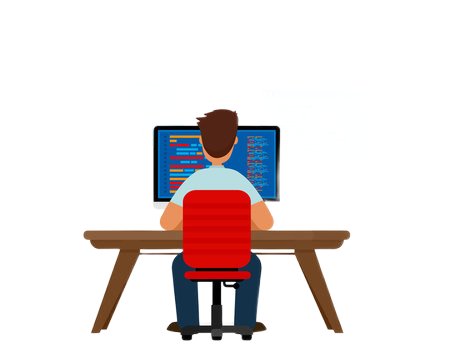
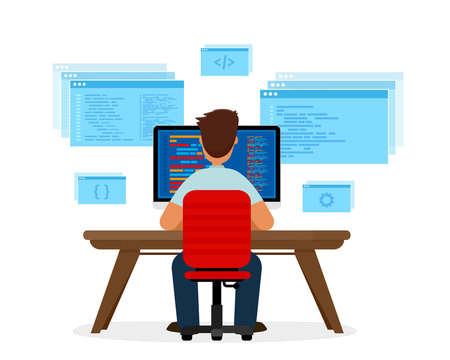
Create Skills component

diff --git a/components/Skills.tsx b/components/Skills.tsx
@@ -1,0 +1,164 @@
+import React from 'react';
+import Grid from '@mui/material/Grid';
+import Box from '@mui/material/Box';
+import Typography from '@mui/material/Typography';
+import JavascriptLogo from '@/assets/javascript.svg';
+import TypeScriptLogo from '@/assets/typescript.svg';
+import Html5Logo from '@/assets/html5.svg';
+import Css3Logo from '@/assets/css3.svg';
+import ReactLogo from '@/assets/react.svg';
+import NextjsLogo from '@/assets/nextjs.svg';
+import ApolloLogo from '@/assets/apollo.svg';
+import ReduxLogo from '@/assets/redux.svg';
+import MUILogo from '@/assets/mui.svg';
+import BootstrapLogo from '@/assets/bootstrap.svg';
+import AntdLogo from '@/assets/antd.svg';
+import NodeJsLogo from '@/assets/nodejs.svg';
+import ExpressLogo from '@/assets/express.svg';
+import MongodbLogo from '@/assets/mongodb.svg';
+import PostGresLogo from '@/assets/postgres.svg';
+import HerokuLogo from '@/assets/heroku.svg';
+import GraphQLLogo from '@/assets/graphql.svg';
+import RestLogo from '@/assets/rest.svg';
+import NestJSLogo from '@/assets/nestjs.svg';
+import Image from 'next/image';
+import Tooltip from '@mui/material/Tooltip';
+
+const Skills: React.FC = () => {
+  return (
+    <Box pb={30}>
+      <Grid container>
+        <Grid item sm={12} md={6}>
+          <Image
+            layout='fixed'
+            src='/dev2-image.png'
+            width={500}
+            height={500}
+            alt='Image'
+          />
+        </Grid>
+        <Grid container item md={6} direction='column'>
+          <Box>
+            <Typography paragraph align='right' sx={{ fontSize: '42px' }}>
+              Languages known
+            </Typography>
+            <Box
+              style={{
+                display: 'flex',
+                gap: '10px',
+                justifyContent: 'flex-end',
+                marginTop: '10px',
+              }}
+            >
+              <Tooltip title='Javascript'>
+                <JavascriptLogo />
+              </Tooltip>
+
+              <Tooltip title='Typescript'>
+                <TypeScriptLogo />
+              </Tooltip>
+
+              <Tooltip title='HTML'>
+                <Html5Logo />
+              </Tooltip>
+
+              <Tooltip title='CSS'>
+                <Css3Logo />
+              </Tooltip>
+            </Box>
+          </Box>
+
+          <Box mt={5}>
+            <Typography paragraph align='right' sx={{ fontSize: '42px' }}>
+              Frontend
+            </Typography>
+            <Box
+              style={{
+                display: 'flex',
+                gap: '10px',
+                justifyContent: 'flex-end',
+                marginTop: '10px',
+              }}
+            >
+              <Tooltip title='React'>
+                <ReactLogo />
+              </Tooltip>
+
+              <Tooltip title='Next.js'>
+                <NextjsLogo />
+              </Tooltip>
+
+              <Tooltip title='Apollo Client'>
+                <ApolloLogo />
+              </Tooltip>
+
+              <Tooltip title='Redux'>
+                <ReduxLogo />
+              </Tooltip>
+
+              <Tooltip title='Material UI'>
+                <MUILogo />
+              </Tooltip>
+
+              <Tooltip title='Bootstrap'>
+                <BootstrapLogo />
+              </Tooltip>
+
+              <Tooltip title='Ant Design'>
+                <AntdLogo />
+              </Tooltip>
+            </Box>
+          </Box>
+
+          <Box mt={5}>
+            <Typography paragraph align='right' sx={{ fontSize: '42px' }}>
+              Backend, Database and Cloud
+            </Typography>
+            <Box
+              style={{
+                display: 'flex',
+                gap: '10px',
+                justifyContent: 'flex-end',
+                marginTop: '10px',
+              }}
+            >
+              <Tooltip title='Node.js'>
+                <NodeJsLogo />
+              </Tooltip>
+
+              <Tooltip title='Express.js'>
+                <ExpressLogo />
+              </Tooltip>
+
+              <Tooltip title='Nest.js'>
+                <NestJSLogo />
+              </Tooltip>
+
+              <Tooltip title='MongoDB'>
+                <MongodbLogo />
+              </Tooltip>
+
+              <Tooltip title='Postgres'>
+                <PostGresLogo />
+              </Tooltip>
+
+              <Tooltip title='REST API'>
+                <RestLogo />
+              </Tooltip>
+
+              <Tooltip title='GraphQL API'>
+                <GraphQLLogo />
+              </Tooltip>
+
+              <Tooltip title='Heroku'>
+                <HerokuLogo />
+              </Tooltip>
+            </Box>
+          </Box>
+        </Grid>
+      </Grid>
+    </Box>
+  );
+};
+
+export default Skills;

diff --git a/components/NavBar.tsx b/components/NavBar.tsx
@@ -4,16 +4,25 @@ import Toolbar from '@mui/material/Toolbar';
 import Typography from '@mui/material/Typography';
 import Brightness4Icon from '@mui/icons-material/Brightness4';
 import IconButton from '@mui/material/IconButton';
+import BrightnessHighIcon from '@mui/icons-material/BrightnessHigh';
+import useScrollTrigger from '@mui/material/useScrollTrigger';
 
 export const ColorModeContext = React.createContext({
   toggleColorMode: () => {},
+  mode: '',
 });
 
-const NavBar = () => {
+const NavBar: React.FC = () => {
   const colorMode = React.useContext(ColorModeContext);
 
+  const trigger = useScrollTrigger({ disableHysteresis: true });
+
   return (
-    <AppBar position='fixed' sx={{ boxShadow: 'none' }} color='transparent'>
+    <AppBar
+      color={!trigger ? 'transparent' : 'inherit'}
+      position='fixed'
+      sx={{ boxShadow: 'none' }}
+    >
       <Toolbar>
         <Typography variant='h6' component='div' sx={{ flexGrow: 1 }}>
           Salvador Loiz
@@ -27,7 +36,11 @@ const NavBar = () => {
           sx={{ mr: 2 }}
           onClick={colorMode.toggleColorMode}
         >
-          <Brightness4Icon />
+          {colorMode.mode === 'light' ? (
+            <Brightness4Icon />
+          ) : (
+            <BrightnessHighIcon />
+          )}
         </IconButton>
       </Toolbar>
     </AppBar>

diff --git a/components/Landing.tsx b/components/Landing.tsx
@@ -9,12 +9,12 @@ import FacebookLogo from '@/assets/facebook.svg';
 import GithubLogo from '@/assets/github.svg';
 import Link from '@mui/material/Link';
 
-const Landing = () => {
+const Landing: React.FC = () => {
   return (
-    <Box mt={25}>
+    <Box mt={25} pb={32}>
       <Grid container>
         <Grid item md={6}>
-          <Typography variant='h1' component='div' gutterBottom>
+          <Typography variant='h1' gutterBottom>
             Hi, I&apos;m Salvador
           </Typography>
           <Typed
@@ -55,13 +55,7 @@ const Landing = () => {
           </div>
         </Grid>
         <Grid item md={6}>
-          <Image
-            src='/dev-image.png'
-            layout='fixed'
-            width={450}
-            height={350}
-            alt='Image'
-          />
+          <Image src='/dev-image.png' width={600} height={500} alt='Image' />
         </Grid>
       </Grid>
     </Box>

diff --git a/pages/_app.tsx b/pages/_app.tsx
@@ -24,8 +24,9 @@ export default function MyApp(props: MyAppProps) {
       toggleColorMode: () => {
         setMode((prevMode) => (prevMode === 'light' ? 'dark' : 'light'));
       },
+      mode,
     }),
-    []
+    [mode]
   );
 
   const theme = React.useMemo(
@@ -46,6 +47,7 @@ export default function MyApp(props: MyAppProps) {
       <Head>
         <title>Salvador Loiz</title>
         <meta name='viewport' content='initial-scale=1, width=device-width' />
+        <meta name='description' content='Salvador Loiz' />
         <link rel='icon' href='/favicon.ico' />
       </Head>
       <ColorModeContext.Provider value={colorMode}>

diff --git a/pages/index.tsx b/pages/index.tsx
@@ -1,17 +1,17 @@
 import type { NextPage } from 'next';
 import NavBar from '@/components/NavBar';
 import Landing from '@/components/Landing';
+import Skills from '@/components/Skills';
 import Container from '@mui/material/Container';
 
 const Home: NextPage = () => {
   return (
     <>
       <NavBar />
-      <main>
-        <Container>
-          <Landing />
-        </Container>
-      </main>
+      <Container>
+        <Landing />
+        <Skills />
+      </Container>
     </>
   );
 };

diff --git a/components/Footer.tsx b/components/Footer.tsx
@@ -1,6 +1,6 @@
 import React from 'react';
 
-const Footer = () => {
+const Footer: React.FC = () => {
   return <div>Footer</div>;
 };
 
